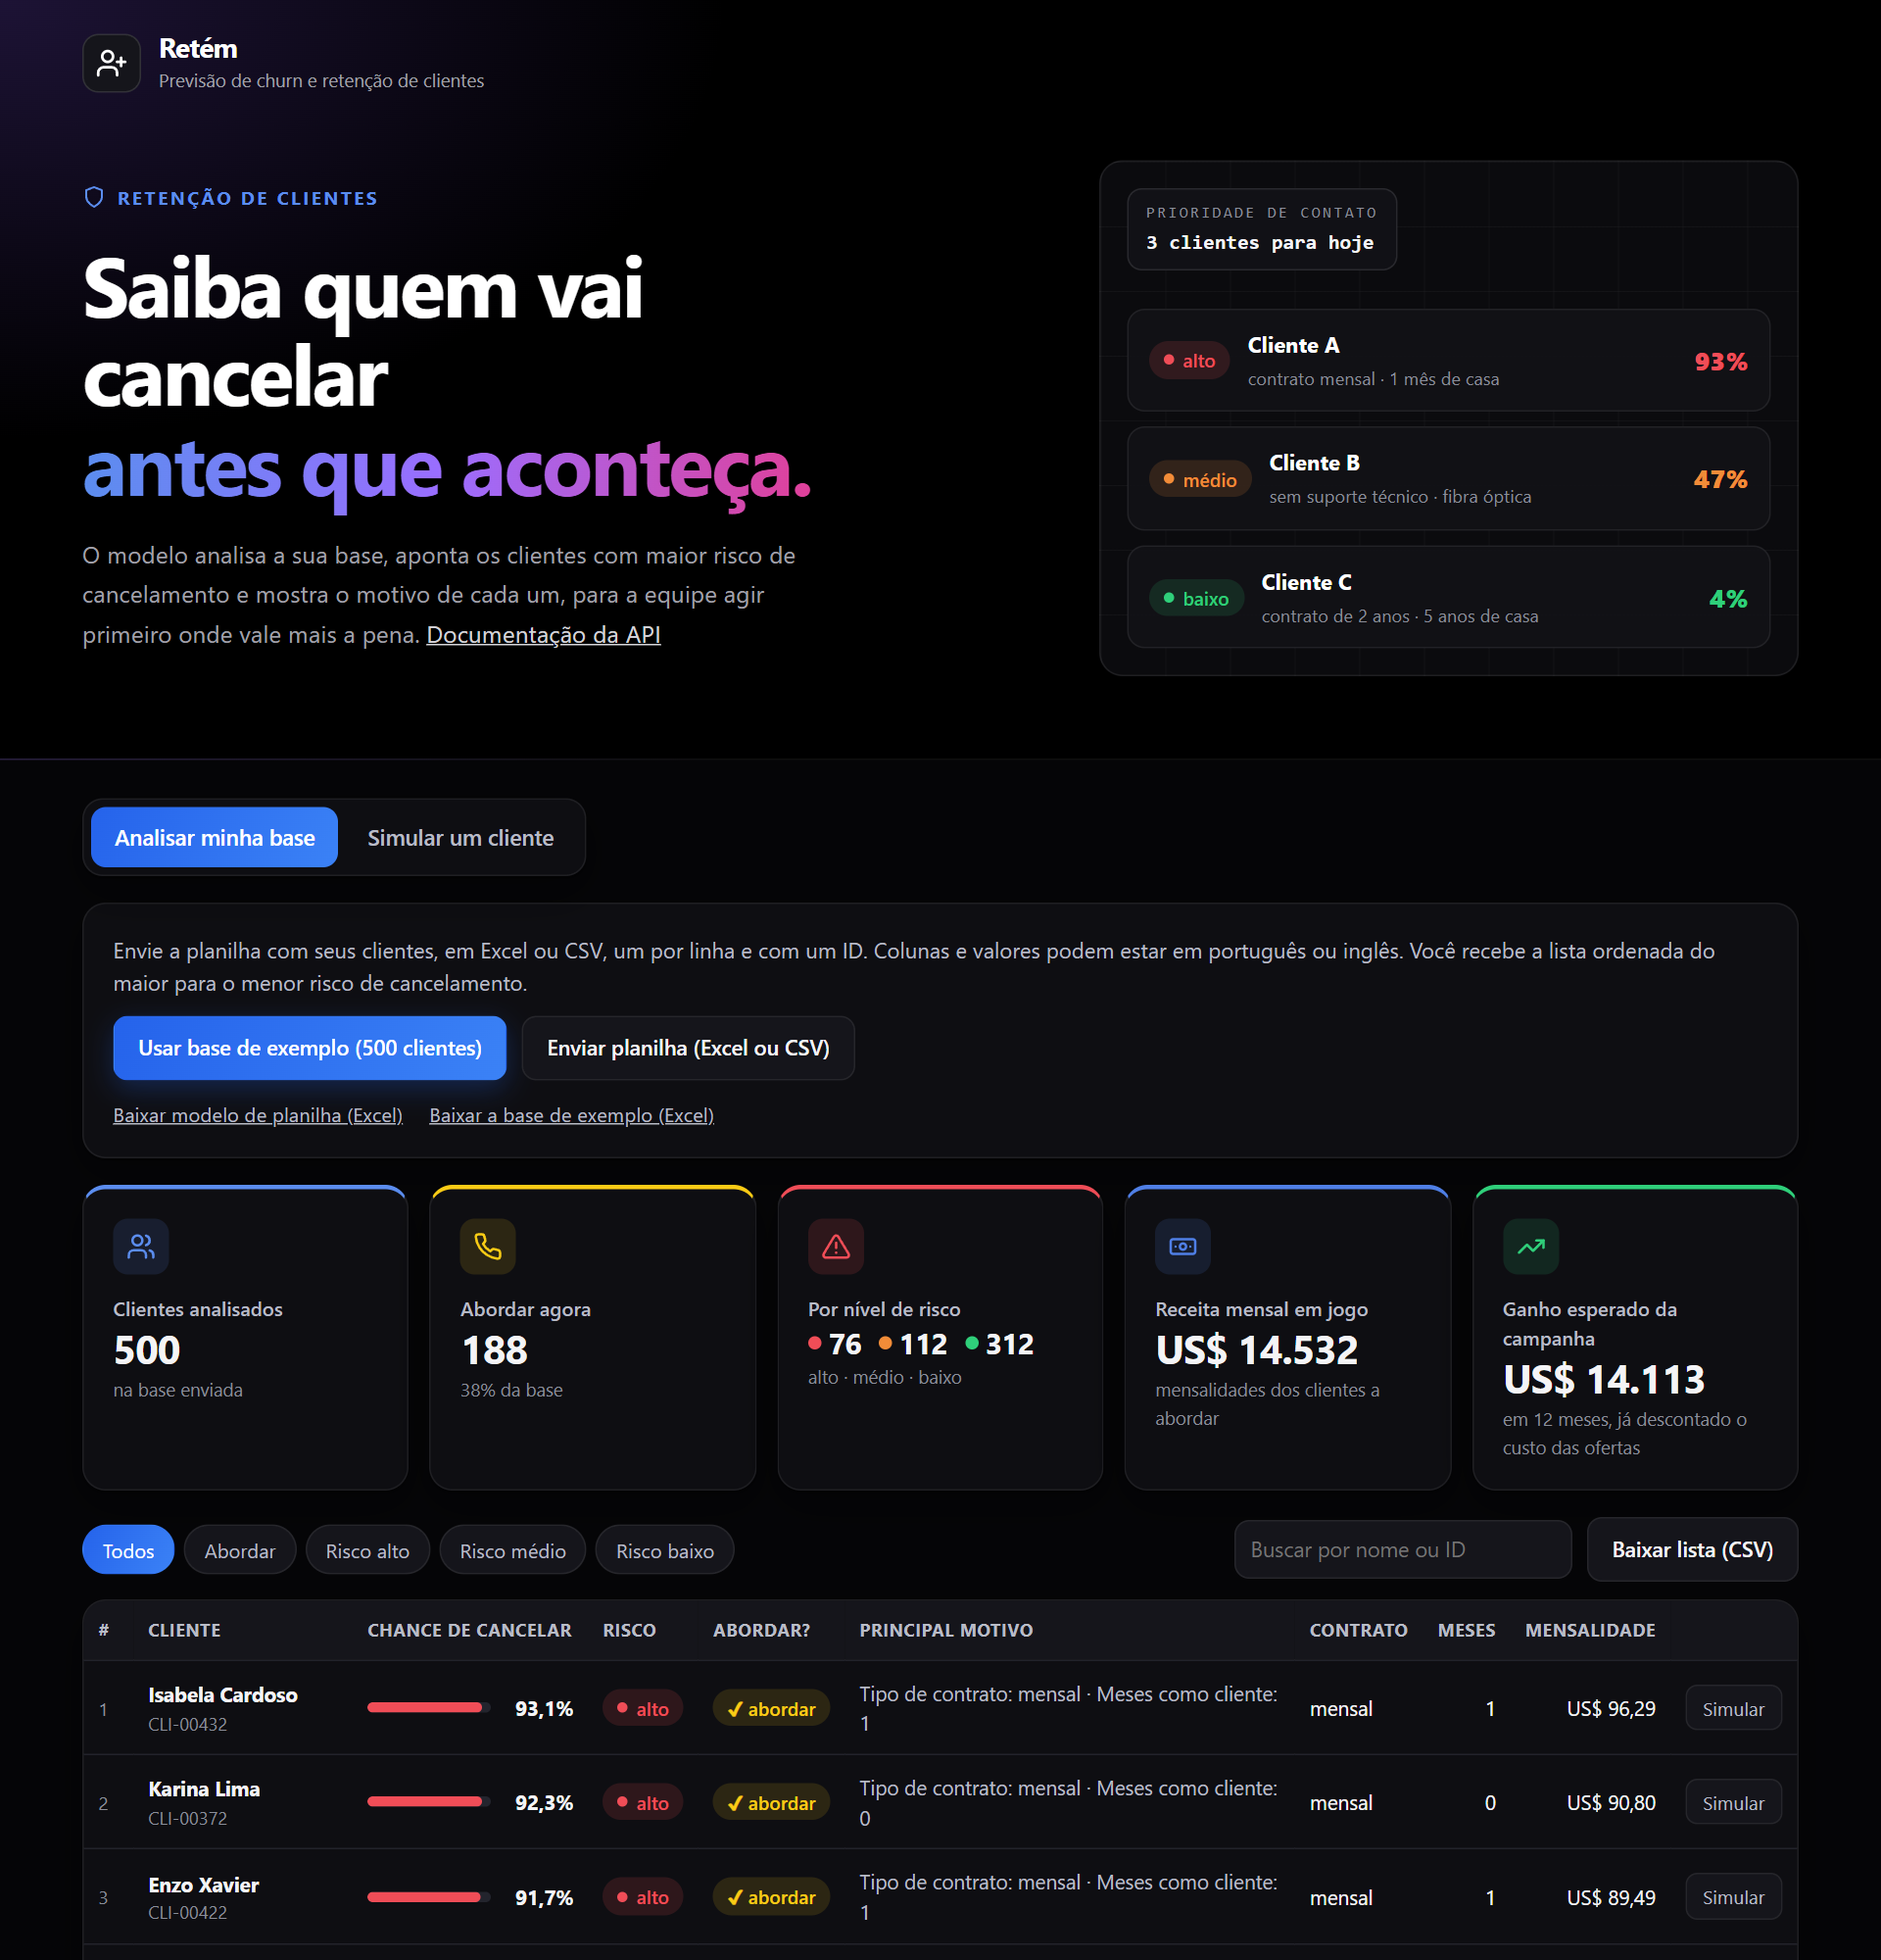
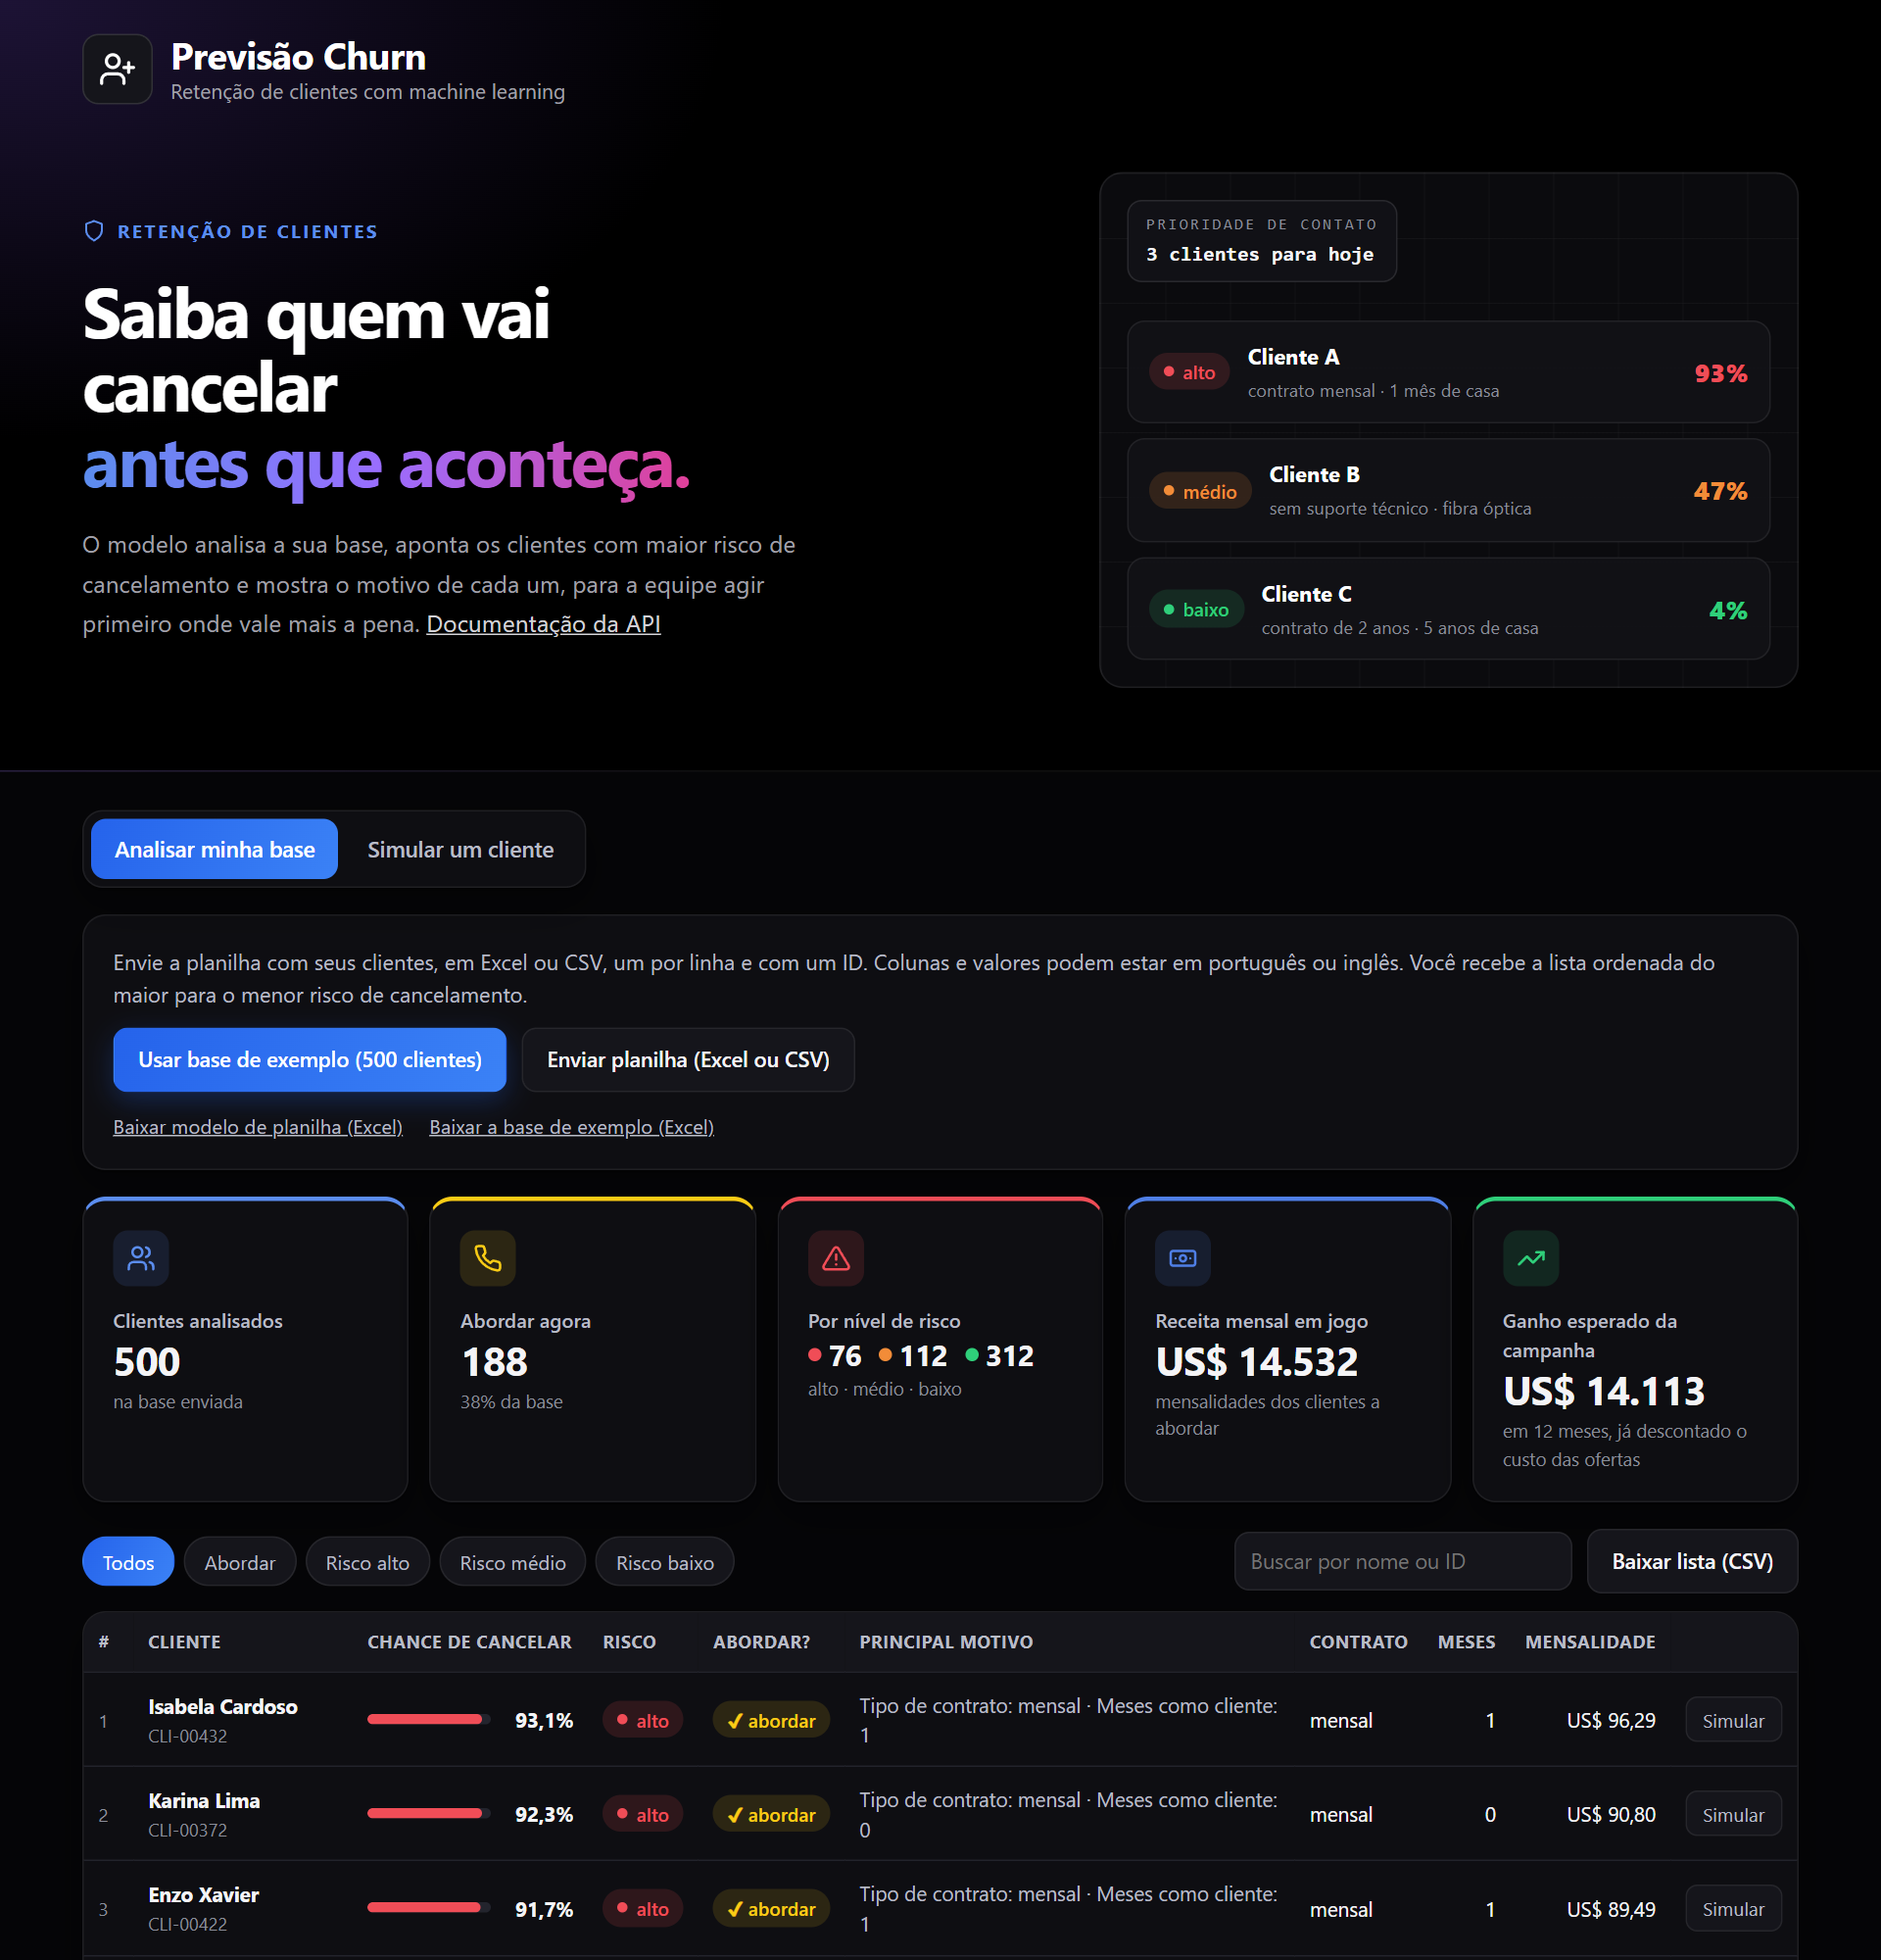
Renomeia o cabeçalho para Previsão Churn e ajusta tamanhos

diff --git a/api/static/index.html b/api/static/index.html
@@ -3,7 +3,7 @@
 <head>
 <meta charset="utf-8">
 <meta name="viewport" content="width=device-width, initial-scale=1">
-<title>Retém · Previsão de Churn</title>
+<title>Previsão Churn</title>
 <meta name="description" content="Estime a chance de um cliente cancelar o serviço e veja os fatores que mais pesaram na previsão.">
 <script>document.documentElement.dataset.theme='dark';</script>
 <style>
@@ -33,14 +33,14 @@ button{font:inherit;cursor:pointer}
 .hero .wrap{padding-bottom:0}
 .hero-top{display:flex;justify-content:space-between;align-items:center;gap:12px}
 .marca{display:flex;align-items:center;gap:12px;text-decoration:none;color:#fff}
-.logo{width:40px;height:40px;border-radius:11px;background:#15151b;border:1px solid rgba(255,255,255,.12);display:grid;place-items:center}
-.logo svg{width:22px;height:22px}
-.marca b{display:block;font-size:1.15rem;letter-spacing:-.02em;line-height:1.1}
-.marca small{font-size:.78rem;color:#a1a1aa}
+.logo{width:48px;height:48px;border-radius:11px;background:#15151b;border:1px solid rgba(255,255,255,.12);display:grid;place-items:center}
+.logo svg{width:26px;height:26px}
+.marca b{display:block;font-size:1.6rem;letter-spacing:-.02em;line-height:1.1}
+.marca small{font-size:.88rem;color:#a1a1aa}
 .capa{display:grid;grid-template-columns:minmax(0,1.15fr) minmax(0,.85fr);gap:48px;align-items:center;margin-top:44px}
 .rotulo{display:inline-flex;align-items:center;gap:8px;color:var(--azul);font-size:.78rem;font-weight:700;letter-spacing:.14em;text-transform:uppercase}
 .rotulo svg{width:16px;height:16px}
-.hero h1{font-size:clamp(2.2rem,5vw,3.6rem);font-weight:700;letter-spacing:-.035em;line-height:1.05;margin:14px 0 20px}
+.hero h1{font-size:clamp(2rem,4.2vw,3rem);font-weight:700;letter-spacing:-.035em;line-height:1.05;margin:14px 0 20px}
 .hero h1 em{font-style:normal;background:var(--titulo);-webkit-background-clip:text;background-clip:text;color:transparent}
 .hero p{max-width:58ch;color:#a1a1aa;font-size:1.02rem;line-height:1.65}
 .hero p a{color:#d4d4d8}
@@ -159,7 +159,7 @@ footer p{max-width:85ch}
     <div class="hero-top">
       <a class="marca" href="/">
         <span class="logo"><svg viewBox="0 0 24 24" fill="none" stroke="#fff" stroke-width="2" stroke-linecap="round" stroke-linejoin="round"><path d="M16 21v-2a4 4 0 0 0-4-4H6a4 4 0 0 0-4 4v2"/><circle cx="9" cy="7" r="4"/><path d="M19 8v6"/><path d="M22 11h-6"/></svg></span>
-        <span><b>Retém</b><small>Previsão de churn e retenção de clientes</small></span>
+        <span><b>Previsão Churn</b><small>Retenção de clientes com machine learning</small></span>
       </a>
     </div>
     <div class="capa">
@@ -295,7 +295,7 @@ footer p{max-width:85ch}
 
   <footer>
     <p>Modelo LightGBM treinado na base pública Telco Customer Churn (IBM). O ponto de corte (29%) foi escolhido para maximizar o resultado de uma campanha de retenção: oferta de 1 mês grátis, 30% de sucesso e 12 meses de receita preservada. A base de exemplo tem clientes fictícios.</p>
-    <span>Retém · <a href="/saude">métricas do modelo</a> · <a href="https://github.com/myttrindade/previsao-churn">código no GitHub</a></span>
+    <span>Previsão Churn · <a href="/saude">métricas do modelo</a> · <a href="https://github.com/myttrindade/previsao-churn">código no GitHub</a></span>
   </footer>
 </div>
 

diff --git a/README.md b/README.md
@@ -1,4 +1,4 @@
-# 📉 Retém: previsão de churn do modelo à produção
+# 📉 Previsão Churn: do modelo à produção
 
 Modelo de machine learning que estima a chance de cada cliente cancelar o serviço, decide **quem vale abordar** com uma oferta de retenção e **explica o porquê** de cada previsão. O modelo está em produção como API e app web.
 
